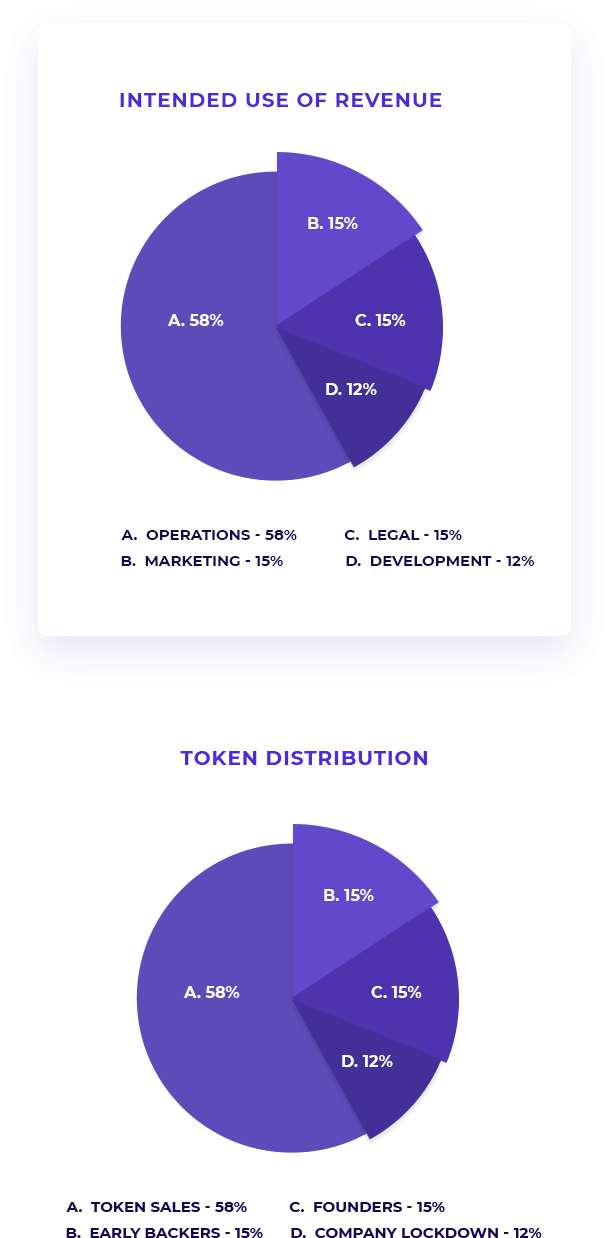
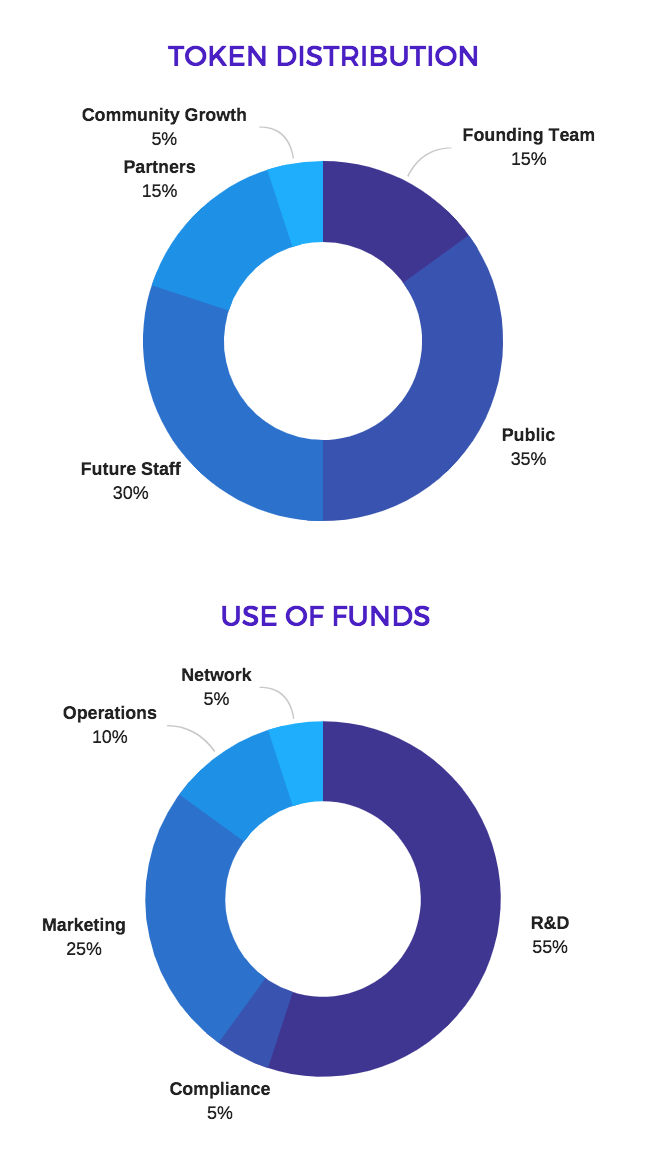
real token allocation graph

diff --git a/src/views/homepage/token-allocation.js b/src/views/homepage/token-allocation.js
@@ -28,7 +28,7 @@ const DesktopGraphic = styled.div`
   background-image: url(${props => props.src});
   background-size: contain;
   background-repeat: no-repeat;
-  width: 600px;
+  width: 800px;
   height: 380px;
 
   @media only screen and (max-width: 768px) {
@@ -54,8 +54,7 @@ const Roadmap = () => (
       <Wrapper>
         <Title>Token Allocation</Title>
         <Text centered size="13px">
-          Below is a breakdown of the sources of investment as well as the
-          planned usage of the funds.
+          Below is a breakdown of the token allocation and usage of the funds.
         </Text>
         <ImageContainer>
           <DesktopGraphic src={IMAGES.TOKEN_ALLOCATION_GRAPH_DESKTOP} />
